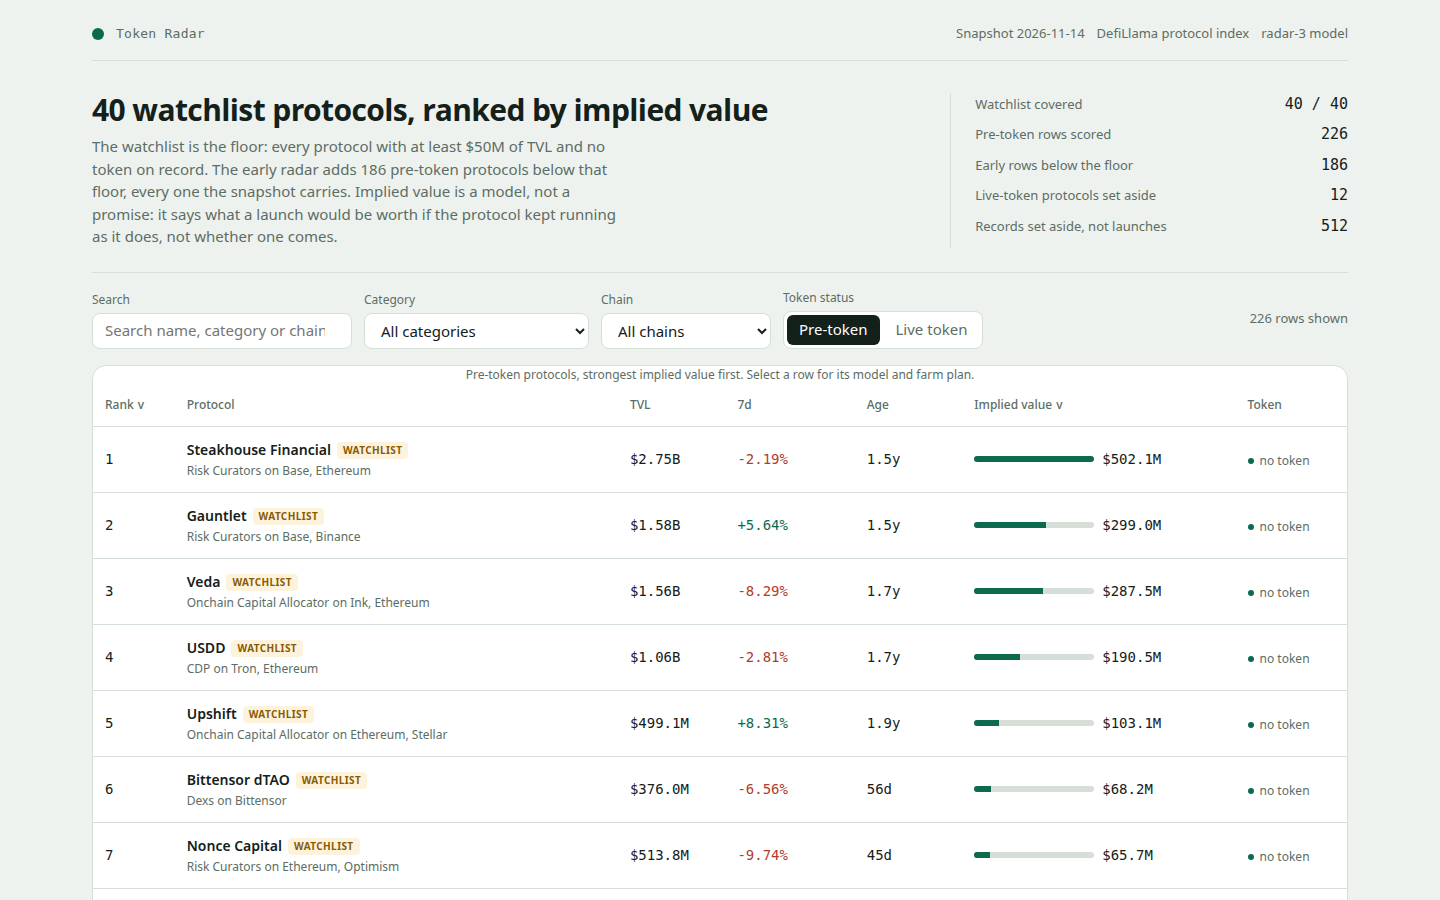
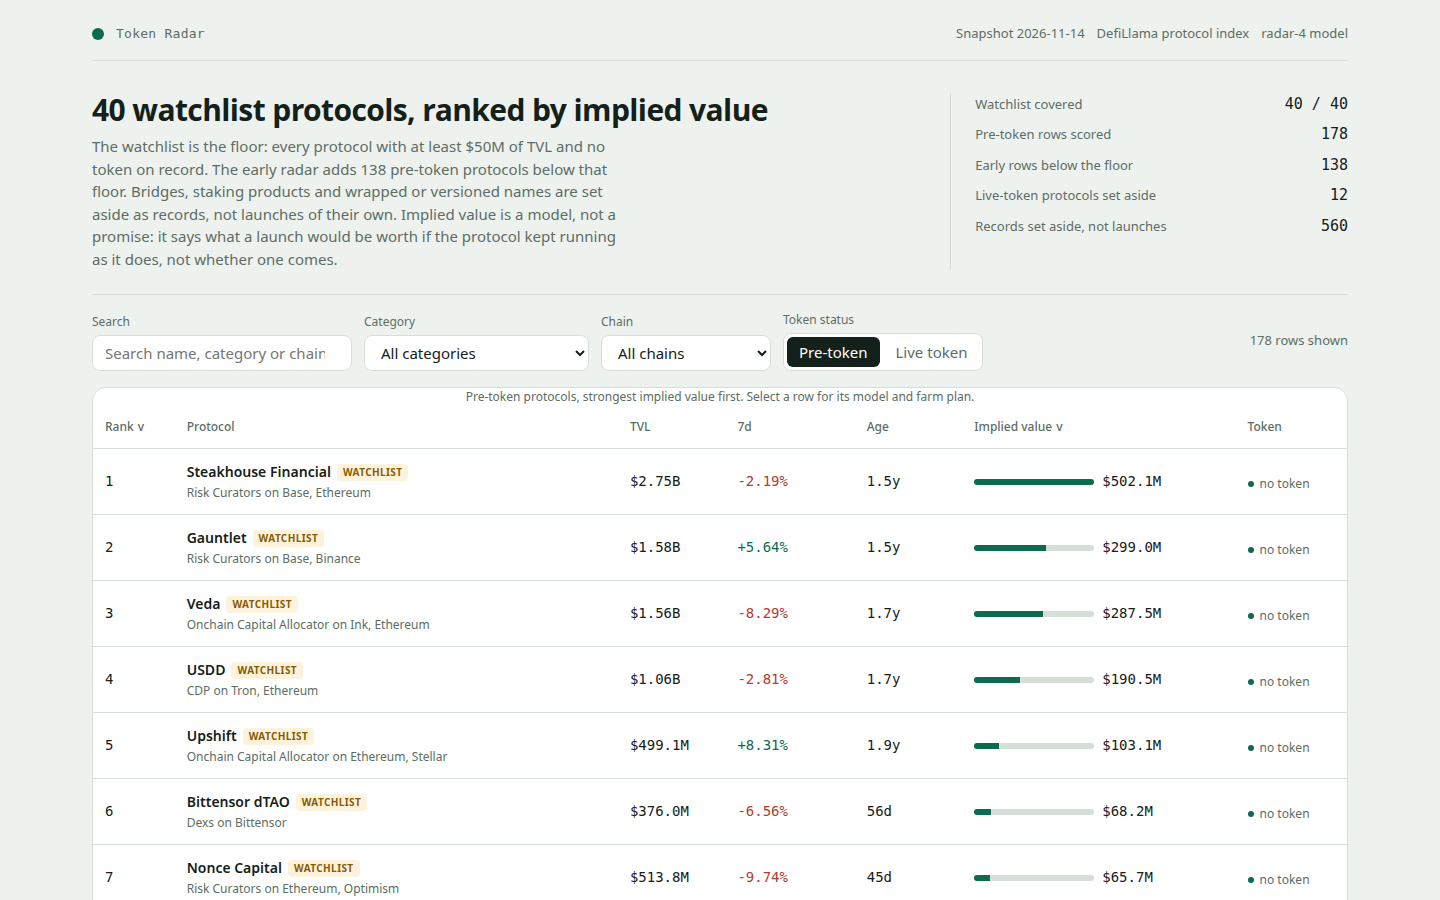
Token Launch Radar: radar-4 — set aside bridge/staking/wrapped products, protocol-specific hold step
- Early radar now applies the exclusion rule itself (isRankable =
  exclusionReason == null): 48 bridge, liquid-staking/restaking,
  wrapped-name and exchange-product records radar-3 ranked as launches
  are set aside, not ranked. Board 226 -> 178 rows, watchlist 40/40,
  top-5 implied values unchanged.
- Farm plan steps 1 and 5 are protocol-specific now: the wallet step
  names the capital it must hold, the hold step states the protocol's
  own age with no token and its 7-day TVL move. Hold step unique
  178/178 (was 7/226); steps 4-7 unique 178/178.
- Dashboard lede states the set-aside rule; screenshots re-taken from
  the radar-4 build; rendered farm steps verified against board.json
  for 3 protocols; two runs byte-identical; check_gate 8/8 PASS.

diff --git a/lib/model.ts b/lib/model.ts
@@ -1,4 +1,4 @@
-// The token radar's model, radar-2: one snapshot of the protocol universe in, one ranked board out.
+// The token radar's model, radar-4: one snapshot of the protocol universe in, one ranked board out.
 //
 // The board covers every slug in the snapshot's watchlist (the floor, never a ceiling) and adds
 // every rankable pre-token protocol below the watchlist floor: the early rows the radar exists to
@@ -7,6 +7,9 @@
 // are counted apart and never ranked as launches of their own: their token already trades through
 // another protocol. The live-token protocols are kept apart too and shown as the market's own values,
 // never mixed into the ranked board: they are the cohort the model's multiples come from.
+// Radar-4 fixes radar-3's early loop, which ranked 48 such products (bridges, liquid-staking and
+// restaking records, wrapped/staked names, one exchange product) as launches of their own even
+// though the watchlist's own rule and this file's exclusion rule both set them aside.
 //
 // Implied value follows only from the snapshot's own figures, through one function of TVL, the
 // protocol's category, its seven-day growth, its age with no token, and how many chains it runs on:
@@ -85,7 +88,7 @@ export const MODEL: ModelConstants = {
 };
 
 /** The model's version label: the dashboard names it. */
-export const MODEL_VERSION = 'radar-3';
+export const MODEL_VERSION = 'radar-4';
 
 /** How many live-token protocols the Live token view carries, by market cap. */
 export const LIVE_ROWS = 12;
@@ -215,9 +218,12 @@ export function isPreToken(p: SnapshotProtocol): boolean {
   return p.mcap_usd === null && p.gecko_id === null && p.symbol === null;
 }
 
-/** Whether a protocol is one the board may rank: pre-token, not an exchange, not a versioned pool. */
+/** Whether a protocol is one the board may rank: pre-token and set aside by no exclusion rule —
+ *  not an exchange, not a versioned pool, not a bridge, staking or wrapped product of a token
+ *  that already trades. The watchlist's own rule and this function are the same rule, so a
+ *  watchlist row always passes and an early row passes only when it is a launch of its own. */
 export function isRankable(p: SnapshotProtocol): boolean {
-  return isPreToken(p) && p.category !== 'CEX' && !VERSIONED.test(p.name);
+  return exclusionReason(p) === null;
 }
 
 /** The reason a pre-token protocol is set aside instead of ranked, or null when it is rankable. */
@@ -414,11 +420,23 @@ function weeklyActionFor(p: SnapshotProtocol, capital: number, chain: string): s
   return `Make one small deposit of $10 into ${name} on ${chain} once a week, so the wallet stays active.`;
 }
 
+/** How long the hold lasts, and why this protocol earns that window: its age with no token
+ *  and its 7-day TVL move, both from its own record. */
+function holdReason(p: SnapshotProtocol, age: number | null, hold: number): string {
+  const ageText = age === null ? 'an unknown age' : `${age} days`;
+  const growthText =
+    p.change_7d === null ? 'by an unknown amount' : `${p.change_7d >= 0 ? '+' : ''}${p.change_7d.toFixed(1)}%`;
+  return (
+    `Hold the position for at least ${hold} days so the activity is counted in more than one snapshot: ` +
+    `${p.name} has run ${ageText} with no token and its TVL moved ${growthText} in 7 days, so a quick in-and-out leaves no trace.`
+  );
+}
+
 /**
  * A protocol's farm plan: seven steps, each an action with a cost and a time. The plan is derived
- * from the protocol's own record (category, chains, TVL, age), never from a hand-written list of names:
- * the wallet step names its chain, the two positions and the weekly action each use the category's
- * own verb, the claim step names the protocol, and the log step records its position.
+ * from the protocol's own record (category, chains, TVL, age, 7-day growth), never from a hand-written list of names:
+ * the wallet step names its chain and the capital it must hold, the two positions and the weekly action each use the category's
+ * own verb, the hold step states the protocol's own age and TVL move, the claim step names the protocol, and the log step records its position.
  */
 export function farmSteps(p: SnapshotProtocol, age: number | null): FarmStep[] {
   const chain = chainOf(p);
@@ -427,7 +445,7 @@ export function farmSteps(p: SnapshotProtocol, age: number | null): FarmStep[] {
   const gas = gasFor(p);
   return [
     {
-      text: `Use a fresh wallet on ${chain} that holds only the funds you plan to farm, and keep its seed phrase offline.`,
+      text: `Use a fresh wallet on ${chain}, funded with the $${capital} you plan to farm with, and keep its seed phrase offline.`,
       cost: 'nothing but the wallet',
       time: '5 minutes',
     },
@@ -447,7 +465,7 @@ export function farmSteps(p: SnapshotProtocol, age: number | null): FarmStep[] {
       time: '10 minutes a week',
     },
     {
-      text: `Hold the position for at least ${hold} days so the activity is counted in more than one snapshot.`,
+      text: holdReason(p, age, hold),
       cost: `the $${capital} stays in the position`,
       time: `${hold} days`,
     },
@@ -498,7 +516,9 @@ export function buildBoard(snapshot: Snapshot, model: ModelConstants = MODEL): {
     if (p !== undefined) chosen.set(slug, p);
   }
   // The early radar: every rankable pre-token protocol below the watchlist floor. Never a replacement
-  // for a watchlist row: a chosen protocol stays chosen.
+  // for a watchlist row: a chosen protocol stays chosen. Rankable here is the exclusion rule itself,
+  // so a bridge, staking or wrapped product below the floor is set aside with the rest, never ranked
+  // as a launch of its own.
   for (const p of snapshot.protocols) {
     if (!chosen.has(p.slug) && isRankable(p) && p.tvl_usd < snapshot.floor_usd) chosen.set(p.slug, p);
   }

diff --git a/dashboard/app.js b/dashboard/app.js
@@ -1,4 +1,4 @@
-// Token Radar's dashboard, model radar-3: reads window.RADAR and renders the ranked board, a
+// Token Radar's dashboard, model radar-4: reads window.RADAR and renders the ranked board, a
 // filterable table and a per-protocol detail drawer with the model and the farm plan. No network.
 (function () {
   'use strict';
@@ -185,17 +185,23 @@
     if (s.length < 20) s = s + " Hold the position and check the protocol's own page.";
     return s;
   }
+  function holdReason(p, hold) {
+    var ageText = (p.age_days === null || p.age_days === undefined) ? 'an unknown age' : p.age_days + ' days';
+    var growthText = (p.change_7d === null || p.change_7d === undefined) ? 'by an unknown amount' : (p.change_7d >= 0 ? '+' : '') + p.change_7d.toFixed(1) + '%';
+    return 'Hold the position for at least ' + hold + ' days so the activity is counted in more than one snapshot: ' +
+      p.name + ' has run ' + ageText + ' with no token and its TVL moved ' + growthText + ' in 7 days, so a quick in-and-out leaves no trace.';
+  }
   function farmSteps(p) {
     var chain = chainOf(p);
     var capital = capitalFor(p);
     var hold = holdDaysFor(p.age_days);
     var gas = gasFor(p);
     return [
-      { text: 'Use a fresh wallet on ' + chain + ' that holds only the funds you plan to farm, and keep its seed phrase offline.', cost: 'nothing but the wallet', time: '5 minutes' },
+      { text: 'Use a fresh wallet on ' + chain + ', funded with the $' + capital + ' you plan to farm with, and keep its seed phrase offline.', cost: 'nothing but the wallet', time: '5 minutes' },
       { text: actionFor(p, capital, chain), cost: '$' + capital + ' of capital and ' + gas.setup, time: '15 minutes to set up' },
       { text: secondActionFor(p, capital, chain), cost: 'about $' + Math.round(capital / 2) + ' of capital and ' + gas.setup, time: '10 minutes' },
       { text: weeklyActionFor(p, capital, chain), cost: gas.weekly, time: '10 minutes a week' },
-      { text: 'Hold the position for at least ' + hold + ' days so the activity is counted in more than one snapshot.', cost: 'the $' + capital + ' stays in the position', time: hold + ' days' },
+      { text: holdReason(p, hold), cost: 'the $' + capital + ' stays in the position', time: hold + ' days' },
       { text: "Before you withdraw, open " + p.name + "'s own points or rewards page and claim only from the link it publishes.", cost: 'no fee to check, and never pay to claim', time: '10 minutes' },
       { text: 'Write the ' + p.name + ' position — the wallet, the dates and every transaction on ' + chain + ' — in a farm log so you can repeat the position or unwind it.', cost: 'nothing but the log', time: '5 minutes' }
     ].map(stepText);
@@ -261,7 +267,7 @@
     return el('section', { class: 'lede' },
       el('div', null,
         el('h1', { text: DATA.watchlist_size + ' watchlist protocols, ranked by implied value' }),
-        el('p', { text: 'The watchlist is the floor: every protocol with at least $' + Math.round(DATA.floor_usd / 1e6) + 'M of TVL and no token on record. The early radar adds ' + DATA.early_size + ' pre-token protocols below that floor, every one the snapshot carries. Implied value is a model, not a promise: it says what a launch would be worth if the protocol kept running as it does, not whether one comes.' })
+        el('p', { text: 'The watchlist is the floor: every protocol with at least $' + Math.round(DATA.floor_usd / 1e6) + 'M of TVL and no token on record. The early radar adds ' + DATA.early_size + ' pre-token protocols below that floor. Bridges, staking products and wrapped or versioned names are set aside as records, not launches of their own. Implied value is a model, not a promise: it says what a launch would be worth if the protocol kept running as it does, not whether one comes.' })
       ),
       el('div', { class: 'facts' },
         el('div', { class: 'fact' }, el('span', { text: 'Watchlist covered' }), el('b', { text: DATA.watchlist_size + ' / ' + DATA.watchlist_size })),

diff --git a/main.ts b/main.ts
@@ -1,4 +1,4 @@
-// A token-radar-01 entry (Node 22, standard library only), model radar-3.
+// A token-radar-01 entry (Node 22, standard library only), model radar-4.
 //
 // The program reads the sealed snapshot from /input/snapshot.json (or --input <file|dir>), scores
 // every rankable pre-token protocol with the model in lib/model.ts, writes the ranked board to

diff --git a/README.md b/README.md
@@ -24,7 +24,7 @@ Then open `out/dashboard/index.html`. The program reads a DefiLlama protocol sna
 
 ## Verification
 
-Fresh local run 18 Nov 2026: `main.ts` scored 758 protocols (40 on the watchlist) into 226 board rows; `check_gate.ts` — **8/8 rows pass** (dashboard files, board file, sorted by value, watchlist 40/40, farm steps, screenshots, dossier byte-identical, data.js = board.json).
+Fresh local run 20 Nov 2026 (model radar-4): `main.ts` scored 758 protocols (40 on the watchlist) into 178 board rows — the 48 bridge, liquid-staking/restaking and wrapped-name records radar-3 ranked as launches are now set aside, not ranked; `check_gate.ts` — **8/8 rows pass** (dashboard files, board file, sorted by value, watchlist 40/40, farm steps, screenshots, dossier byte-identical, data.js = board.json). Farm plans: all 7 steps unique per protocol on steps 4–7 (178/178), hold step 178/178 (was 7/226 in radar-3). Two runs byte-identical (board.json, data.js, dossier.json).
 
 ---
 
